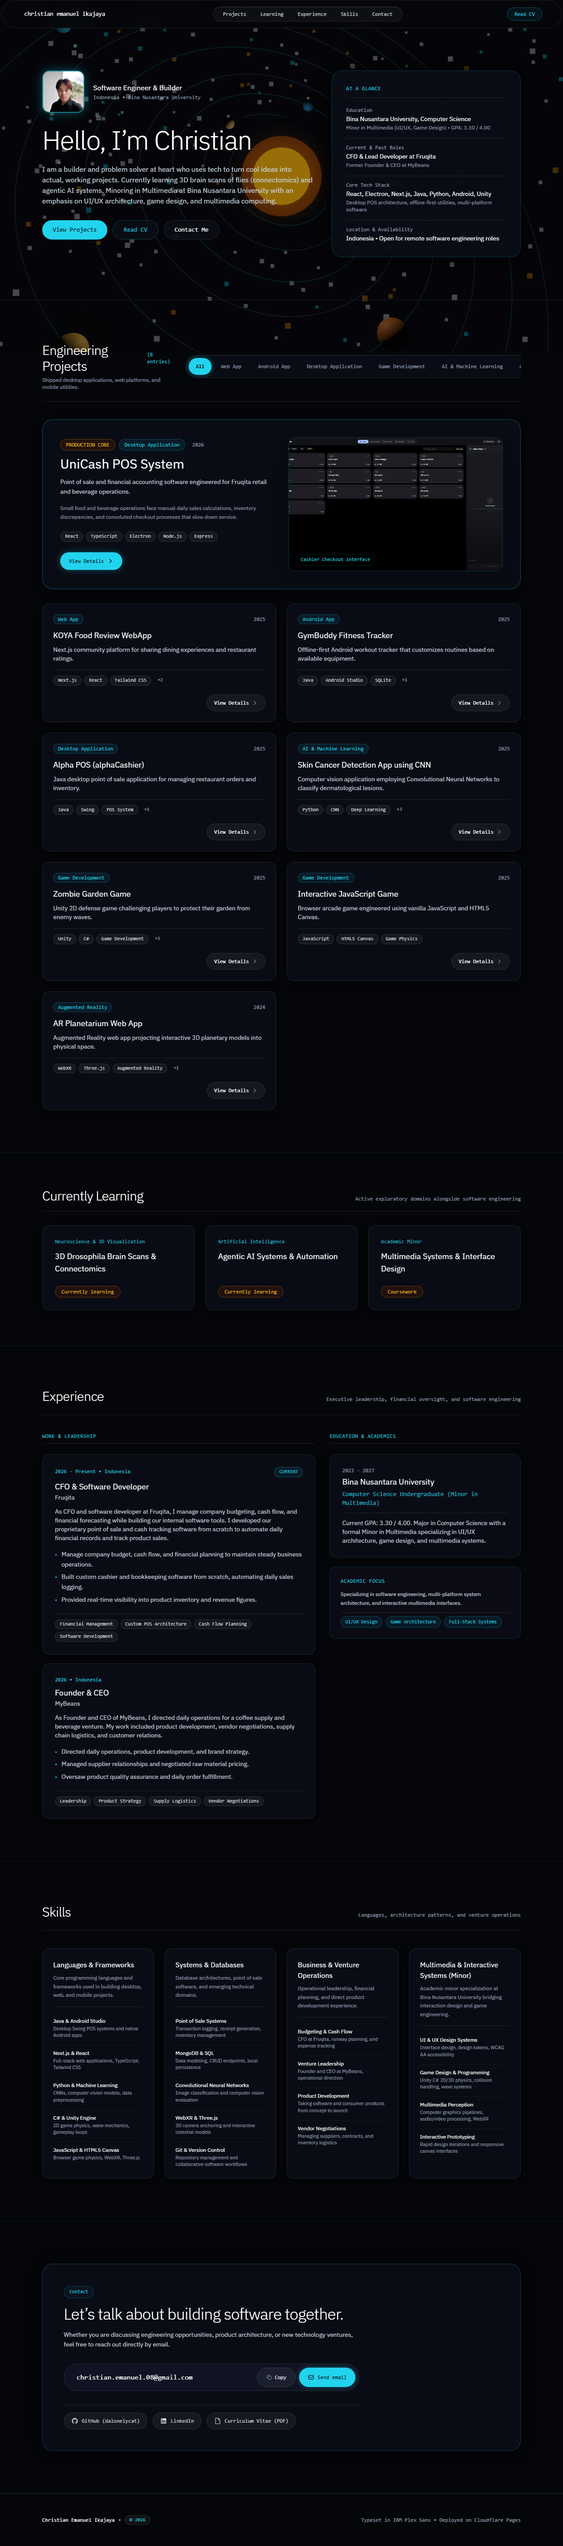
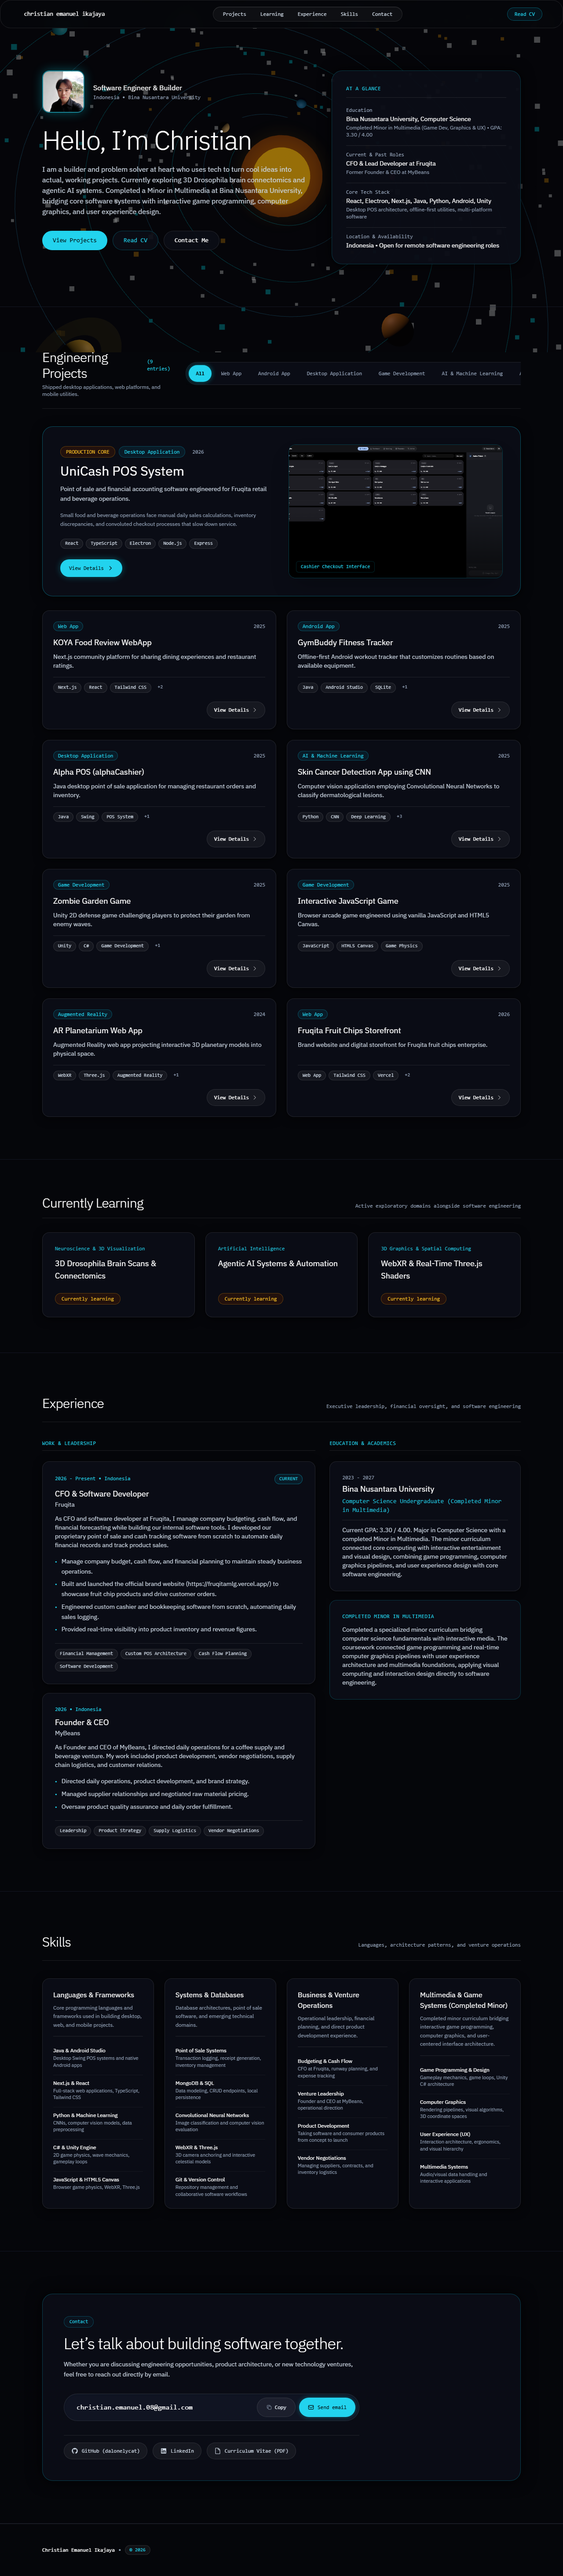
feat: describe completed Multimedia minor, add Fruqita website project, and clean footer

diff --git a/src/data/portfolio.ts b/src/data/portfolio.ts
@@ -5,7 +5,7 @@ export const portfolioData: PortfolioData = {
     name: "Christian Emanuel Ikajaya",
     role: "Software Engineer & Builder",
     tagline: "Hello im Christian",
-    bio: "I am a builder and problem solver at heart who uses tech to turn cool ideas into actual, working projects. Currently learning 3D brain scans of flies (connectomics) and agentic AI systems. Minoring in Multimedia at Bina Nusantara University with an emphasis on UI/UX architecture, game design, and multimedia computing.",
+    bio: "I am a builder and problem solver at heart who uses tech to turn cool ideas into actual, working projects. Currently exploring 3D Drosophila brain connectomics and agentic AI systems. Completed a Minor in Multimedia at Bina Nusantara University, bridging core software systems with interactive game programming, computer graphics, and user experience design.",
     philosophy: "Hello im Christian",
     location: "Indonesia (Bina Nusantara University, Open for Remote)",
     status: "Available for software engineering and builder roles",
@@ -209,6 +209,24 @@ export const portfolioData: PortfolioData = {
       tags: ["WebXR", "Three.js", "Augmented Reality", "JavaScript"],
       featured: false,
     },
+    {
+      id: "fruqita-web",
+      title: "Fruqita Fruit Chips Storefront",
+      tagline: "Brand website and digital storefront for Fruqita fruit chips enterprise.",
+      category: "Web App",
+      year: "2026",
+      overview:
+        "Official web storefront built for Fruqita in 2026 to showcase artisan fruit chips, display seasonal product catalogs, and streamline direct ordering through Shopee and WhatsApp channels.",
+      problem:
+        "Direct-to-consumer fruit chip sales required an authoritative digital brand platform with mobile responsiveness and seamless customer purchasing channels.",
+      solution:
+        "Engineered a responsive web platform with smooth animations, interactive product displays, Shopee marketplace integration, and direct WhatsApp ordering flow.",
+      impact:
+        "Established Fruqita's active digital storefront, elevating brand credibility and directing consumer traffic to verified checkout points.",
+      tags: ["Web App", "Tailwind CSS", "Vercel", "E-Commerce", "Brand Strategy"],
+      liveUrl: "https://fruqitamlg.vercel.app/",
+      featured: true,
+    },
   ],
 
   experiences: [
@@ -223,7 +241,8 @@ export const portfolioData: PortfolioData = {
         "As CFO and software developer at Fruqita, I manage company budgeting, cash flow, and financial forecasting while building our internal software tools. I developed our proprietary point of sale and cash tracking software from scratch to automate daily financial records and track product sales.",
       highlights: [
         "Manage company budget, cash flow, and financial planning to maintain steady business operations.",
-        "Built custom cashier and bookkeeping software from scratch, automating daily sales logging.",
+        "Built and launched the official brand website (https://fruqitamlg.vercel.app/) to showcase fruit chip products and drive customer orders.",
+        "Engineered custom cashier and bookkeeping software from scratch, automating daily sales logging.",
         "Provided real-time visibility into product inventory and revenue figures.",
       ],
       technologies: ["Financial Management", "Custom POS Architecture", "Cash Flow Planning", "Software Development"],
@@ -280,23 +299,23 @@ export const portfolioData: PortfolioData = {
       ],
     },
     {
-      title: "Multimedia & Interactive Systems (Minor)",
-      description: "Academic minor specialization at Bina Nusantara University bridging interaction design and game engineering.",
+      title: "Multimedia & Game Systems (Completed Minor)",
+      description: "Completed minor curriculum bridging interactive game programming, computer graphics, and user-centered interface architecture.",
       skills: [
-        { name: "UI & UX Design Systems", context: "Interface design, design tokens, WCAG AA accessibility" },
-        { name: "Game Design & Programming", context: "Unity C# 2D/3D physics, collision handling, wave systems" },
-        { name: "Multimedia Perception", context: "Computer graphics pipelines, audio/video processing, WebXR" },
-        { name: "Interactive Prototyping", context: "Rapid design iterations and responsive canvas interfaces" },
+        { name: "Game Programming & Design", context: "Gameplay mechanics, game loops, Unity C# architecture" },
+        { name: "Computer Graphics", context: "Rendering pipelines, visual algorithms, 3D coordinate spaces" },
+        { name: "User Experience (UX)", context: "Interaction architecture, ergonomics, and visual hierarchy" },
+        { name: "Multimedia Systems", context: "Audio/visual data handling and interactive applications" },
       ],
     },
   ],
 
   education: [
     {
-      degree: "Computer Science Undergraduate (Minor in Multimedia)",
+      degree: "Computer Science Undergraduate (Completed Minor in Multimedia)",
       institution: "Bina Nusantara University",
       period: "2023 - 2027",
-      notes: "Current GPA: 3.30 / 4.00. Major in Computer Science with a formal Minor in Multimedia specializing in UI/UX architecture, game design, and multimedia systems.",
+      notes: "Current GPA: 3.30 / 4.00. Major in Computer Science with a completed Minor in Multimedia. The minor curriculum connected core computing with interactive entertainment and visual design, combining game programming, computer graphics pipelines, and user experience design with core software engineering.",
     },
   ],
 };

diff --git a/src/components/Experience.tsx b/src/components/Experience.tsx
@@ -114,25 +114,14 @@ export function ExperienceSection({ experiences, education }: ExperienceProps) {
                 </div>
               ))}
 
-              {/* Academic Highlights Summary */}
-              <div className="p-6 rounded-2xl border border-cyan-500/20 bg-[#0B0D16]/80 text-xs font-sans space-y-3">
+              {/* Completed Multimedia Minor Narrative */}
+              <div className="p-6 sm:p-7 rounded-2xl border border-cyan-500/25 bg-[#0B0D16]/90 text-xs font-sans space-y-3">
                 <span className="text-xs font-mono text-cyan-400 block uppercase tracking-wider">
-                  Academic Focus
+                  Completed Minor in Multimedia
                 </span>
-                <p className="text-slate-300 leading-relaxed">
-                  Specializing in software engineering, multi-platform system architecture, and interactive multimedia interfaces.
+                <p className="text-slate-300 leading-relaxed text-xs sm:text-sm">
+                  Completed a specialized minor curriculum bridging computer science fundamentals with interactive media. The coursework connected game programming and real-time computer graphics pipelines with user experience architecture and multimedia foundations, applying visual computing and interaction design directly to software engineering.
                 </p>
-                <div className="flex flex-wrap gap-2 pt-2 border-t border-white/10">
-                  <span className="font-mono text-[11px] px-2.5 py-1 rounded-full bg-cyan-950/40 border border-cyan-500/30 text-cyan-400">
-                    UI/UX Design
-                  </span>
-                  <span className="font-mono text-[11px] px-2.5 py-1 rounded-full bg-cyan-950/40 border border-cyan-500/30 text-cyan-400">
-                    Game Architecture
-                  </span>
-                  <span className="font-mono text-[11px] px-2.5 py-1 rounded-full bg-cyan-950/40 border border-cyan-500/30 text-cyan-400">
-                    Full-Stack Systems
-                  </span>
-                </div>
               </div>
             </div>
           </div>

diff --git a/src/components/Footer.tsx b/src/components/Footer.tsx
@@ -6,17 +6,13 @@ export function Footer() {
   return (
     <footer className="py-12 border-t border-white/10 text-slate-400 text-xs font-mono">
       <div className="max-w-6xl mx-auto px-4 sm:px-6 lg:px-8">
-        <div className="flex flex-col sm:flex-row items-start sm:items-center justify-between gap-4">
+        <div className="flex items-center justify-between">
           <div className="flex items-center gap-2">
             <span className="text-white font-normal">Christian Emanuel Ikajaya</span>
             <span>•</span>
             <span className="px-2.5 py-0.5 rounded-full bg-white/5 border border-white/10 text-[11px] text-cyan-400">
               © 2026
             </span>
-          </div>
-
-          <div className="text-slate-400">
-            Typeset in IBM Plex Sans • Deployed on Cloudflare Pages
           </div>
         </div>
       </div>

diff --git a/src/components/Hero.tsx b/src/components/Hero.tsx
@@ -89,7 +89,7 @@ export function Hero({ personal, onPrintCV }: HeroProps) {
                   Bina Nusantara University, Computer Science
                 </dd>
                 <dd className="text-xs text-slate-400 mt-0.5">
-                  Minor in Multimedia (UI/UX, Game Design) • GPA: 3.30 / 4.00
+                  Completed Minor in Multimedia (Game Dev, Graphics & UX) • GPA: 3.30 / 4.00
                 </dd>
               </div>
 

diff --git a/src/components/Learning.tsx b/src/components/Learning.tsx
@@ -15,9 +15,9 @@ export function Learning() {
       status: "Currently learning",
     },
     {
-      category: "Academic Minor",
-      title: "Multimedia Systems & Interface Design",
-      status: "Coursework",
+      category: "3D Graphics & Spatial Computing",
+      title: "WebXR & Real-Time Three.js Shaders",
+      status: "Currently learning",
     },
   ];
 
